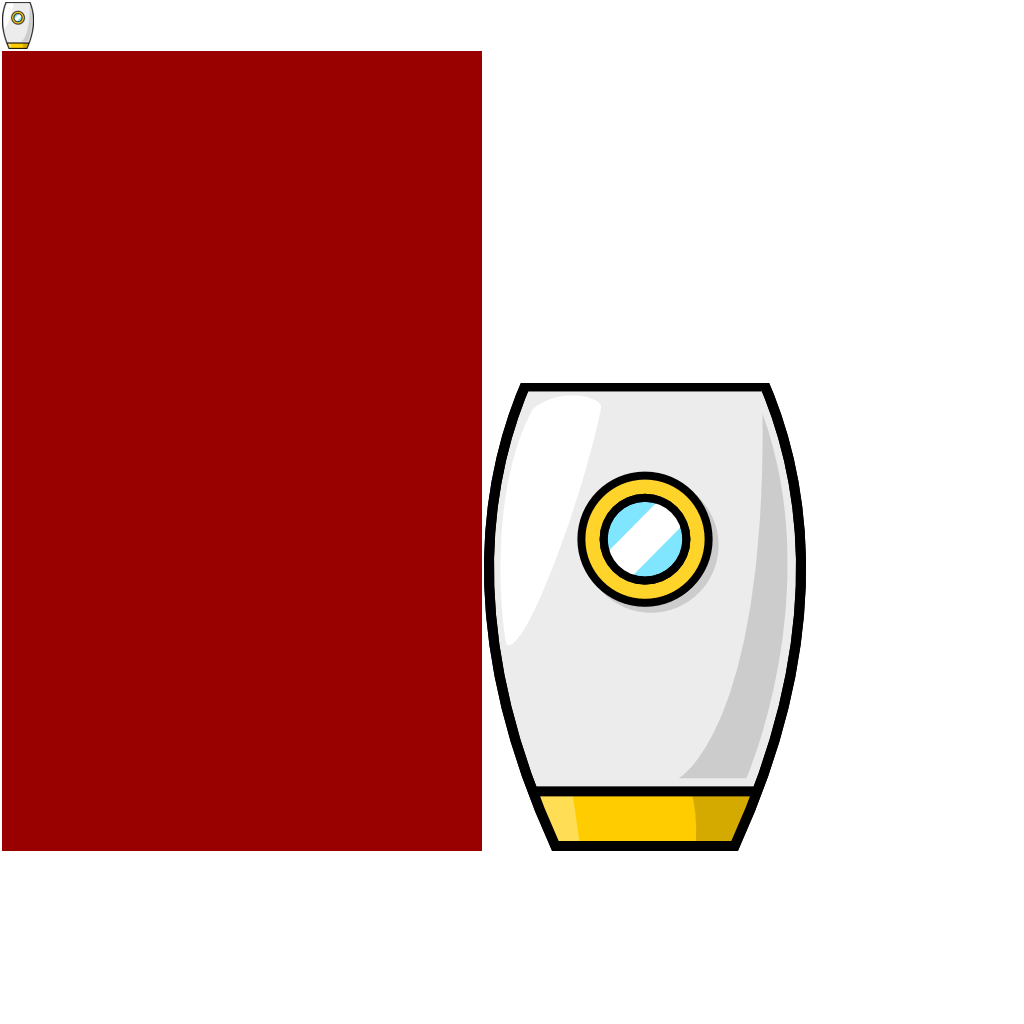
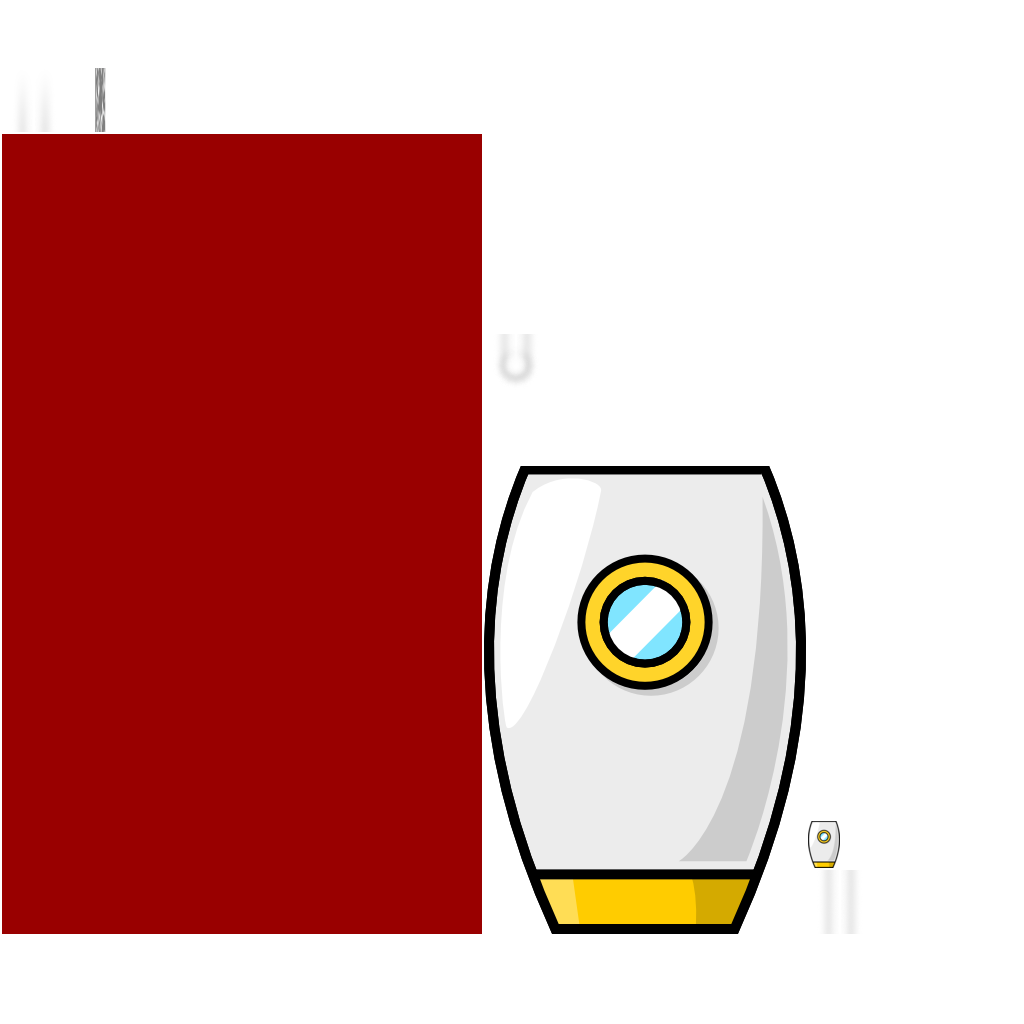
laser

Changed region(s): [[0.4688, 0.3438, 0.8438, 0.9375], [0.0, 0.0, 0.4688, 0.1562], [0.0, 0.8125, 0.4688, 0.9375]]

diff --git a/core/src/core/september/moon/landing/gameobjects/Laser.java b/core/src/core/september/moon/landing/gameobjects/Laser.java
@@ -1,7 +1,101 @@
 package core.september.moon.landing.gameobjects;
 
+import com.badlogic.gdx.graphics.Color;
+import com.badlogic.gdx.graphics.g2d.SpriteBatch;
+import com.badlogic.gdx.graphics.g2d.TextureRegion;
+import com.badlogic.gdx.math.Vector2;
+import core.september.moon.landing.framework.AbstractGameObject;
+import core.september.moon.landing.framework.Assets;
+
 /**
  * Created by christian on 12/02/15.
  */
-public class Laser {
+public class Laser extends AbstractGameObject{
+
+    public final static String TAG = Laser.class.getName();
+    public Laser(AbstractGameObject parent) {
+        init(parent);
+    }
+
+
+    public void init (AbstractGameObject parent) {
+        dimension.set(64, 64);
+        position.set(parent.position.x,parent.position.y);
+        // Center image on game object
+        rotation = parent.rotation;
+        origin.set(parent.dimension.x, parent.dimension.y);
+        //origin.set(dimension.x / 2, dimension.y / 2);
+
+        // Bounding box for collision detection
+        bounds.set(0, 0, dimension.x, dimension.y);
+
+        // Set physics values
+        /*terminalVelocity.set(3.0f, 4.0f);
+        friction.set(12.0f, 0.0f);
+        acceleration.set(0.0f, -25.0f);*/
+
+    }
+
+
+
+    @Override
+    public void render(SpriteBatch batch) {
+        TextureRegion reg[] = new TextureRegion[7];
+
+
+
+        // Apply Skin Color
+        // batch.setColor(CharacterSkin.values()[GamePreferences.instance.charSkin].getColor());
+
+
+
+        // Draw image
+        reg[Assets.LASER_START_BG] =  Assets.instance.laser.laser[Assets.LASER_START_BG];
+        //reg[Assets.LASER_START_BG].getTexture().
+
+        Vector2 vector = new Vector2();
+        drawSprite(batch,Assets.instance.laser.laser[Assets.LASER_START_BG],vector,Color.RED);
+        drawSprite(batch,Assets.instance.laser.laser[Assets.LASER_START_OL],vector,Color.RED);
+
+        vector.set(dimension.x,dimension.y-0.5f);
+
+        drawSprite(batch,Assets.instance.laser.laser[Assets.LASER_MIDDLE_BG],vector,Color.RED);
+        drawSprite(batch,Assets.instance.laser.laser[Assets.LASER_MIDDLE_OL],vector,Color.RED);
+
+        vector.set(dimension.x+vector.x,dimension.y+vector.y);
+
+        drawSprite(batch,Assets.instance.laser.laser[Assets.LASER_END_BG],vector,Color.RED);
+        drawSprite(batch,Assets.instance.laser.laser[Assets.LASER_END_OL],vector,Color.RED);
+
+
+
+        logObject(TAG,Assets.instance.laser.laser[Assets.LASER_START_BG],0,0);
+        // Reset color to white
+        batch.setColor(1, 1, 1, 1);
+    }
+
+    private void drawSprite(SpriteBatch batch,TextureRegion region,Vector2 parent,Color color) {
+
+        float dimCorrectionX = 0;
+        float dimCorrectionY = 0;
+
+
+        batch.setColor(color);
+        batch.draw(region.getTexture(),
+                position.x,
+                position.y+parent.y,
+                origin.x,
+                origin.y,
+                dimension.x + dimCorrectionX,
+                dimension.y + dimCorrectionY,
+                scale.x,
+                scale.y,
+                rotation,
+                region.getRegionX(),
+                region.getRegionY(),
+                region.getRegionWidth(),
+                region.getRegionHeight(), false, false);
+
+
+    }
 }

diff --git a/core/src/core/september/moon/landing/screens/play/WorldRenderer.java b/core/src/core/september/moon/landing/screens/play/WorldRenderer.java
@@ -20,6 +20,8 @@ package core.september.moon.landing.screens.play;
 import com.badlogic.gdx.graphics.OrthographicCamera;
 import com.badlogic.gdx.graphics.g2d.SpriteBatch;
 import com.badlogic.gdx.math.MathUtils;
+import com.badlogic.gdx.math.Rectangle;
+import com.badlogic.gdx.math.Vector2;
 import com.badlogic.gdx.utils.Disposable;
 import core.september.moon.landing.framework.Constants;
 
@@ -184,13 +186,37 @@ public class WorldRenderer implements Disposable {
 	}
 
 	public void resize (int width, int height) {
-		camera.viewportWidth = (Constants.VIEWPORT_HEIGHT / (float)height) * (float)width;
-		camera.update();
+		//camera.viewportWidth = (Constants.VIEWPORT_HEIGHT / (float)height) * (float)width;
+		//camera.update();
 		/*cameraGUI.viewportHeight = Constants.VIEWPORT_GUI_HEIGHT;
 		cameraGUI.viewportWidth = (Constants.VIEWPORT_GUI_HEIGHT / (float)height) * (float)width;
 		cameraGUI.position.set(cameraGUI.viewportWidth / 2, cameraGUI.viewportHeight / 2, 0);
 		cameraGUI.update();*/
-	}
+        float aspectRatio = (float)width/(float)height;
+        float scale = 1f;
+        Vector2 crop = new Vector2(0f, 0f);
+        if(aspectRatio > Constants.ASPECT_RATIO)
+        {
+            scale = (float)height/(float)Constants.VIEWPORT_HEIGHT;
+            crop.x = (width - Constants.VIEWPORT_WIDTH*scale)/2f;
+        }
+        else if(aspectRatio < Constants.ASPECT_RATIO)
+        {
+            scale = (float)width/(float)Constants.VIEWPORT_WIDTH;
+            crop.y = (height - Constants.VIEWPORT_HEIGHT*scale)/2f;
+        }
+        else
+        {
+            scale = (float)width/(float)Constants.VIEWPORT_WIDTH;
+        }
+
+        float w = (float)Constants.VIEWPORT_WIDTH*scale;
+        float h = (float)Constants.VIEWPORT_HEIGHT*scale;
+        Rectangle viewport = new Rectangle(crop.x, crop.y, w, h);
+        camera.viewportHeight = viewport.height;
+        camera.viewportWidth = viewport.width;
+        //camera.update();
+    }
 
 	@Override
 	public void dispose () {

diff --git a/core/src/core/september/moon/landing/framework/Assets.java b/core/src/core/september/moon/landing/framework/Assets.java
@@ -19,7 +19,15 @@ public class Assets implements Disposable, AssetErrorListener {
     public AssetLem lem;
     public AssetBack back;
     public AssetMoon moon;
+    public AssetLaser laser;
 
+    public final static int LASER_START_BG = 0;
+    public final static int LASER_START_OL = 1;
+    public final static int LASER_MIDDLE_BG = 2;
+    public final static int LASER_MIDDLE_OL = 3;
+    public final static int LASER_END_BG = 4;
+    public final static int LASER_END_OL = 5;
+    public final static int LASER_ANIMATION = 6;
 
     @Override
     public void error(AssetDescriptor asset, Throwable throwable) {
@@ -73,6 +81,7 @@ public class Assets implements Disposable, AssetErrorListener {
         lem = new AssetLem(atlas);
         back = new AssetBack(atlas);
         moon = new AssetMoon(atlas);
+        laser = new AssetLaser(atlas);
     }
 
     public class AssetLem {
@@ -99,6 +108,23 @@ public class Assets implements Disposable, AssetErrorListener {
 
         public AssetMoon (TextureAtlas atlas) {
             moon = atlas.findRegion("moon");
+        }
+    }
+
+
+    public class AssetLaser {
+        public final TextureAtlas.AtlasRegion[] laser;
+
+
+        public AssetLaser (TextureAtlas atlas) {
+            laser = new TextureAtlas.AtlasRegion[7];
+            laser[LASER_START_BG] = atlas.findRegion("startBg");
+            laser[LASER_START_OL] = atlas.findRegion("startOl");
+            laser[LASER_MIDDLE_BG] = atlas.findRegion("middleBg");
+            laser[LASER_MIDDLE_OL] = atlas.findRegion("middleOl");
+            laser[LASER_END_BG] = atlas.findRegion("endBg");
+            laser[LASER_END_OL] = atlas.findRegion("endOl");
+            laser[LASER_ANIMATION] = atlas.findRegion("olAnimation");
         }
     }
 }

diff --git a/core/src/core/september/moon/landing/screens/play/Level.java b/core/src/core/september/moon/landing/screens/play/Level.java
@@ -2,6 +2,7 @@ package core.september.moon.landing.screens.play;
 
 import com.badlogic.gdx.graphics.g2d.SpriteBatch;
 import core.september.moon.landing.gameobjects.Back;
+import core.september.moon.landing.gameobjects.Laser;
 import core.september.moon.landing.gameobjects.Lem;
 import core.september.moon.landing.gameobjects.Moon;
 
@@ -32,6 +33,7 @@ public class Level {
     public Back back;
     public Lem lem;
     public Moon moon;
+    public Laser laser;
 
 
 
@@ -143,6 +145,7 @@ public class Level {
         back = new Back();
         moon = new Moon();
         lem = new Lem();
+        laser = new Laser(lem);
 
     }
 
@@ -153,6 +156,7 @@ public class Level {
         back.update(deltaTime);
         moon.update(deltaTime);
         lem.update(deltaTime);
+        laser.update(deltaTime);
 
 
         // Bunny Head
@@ -176,7 +180,8 @@ public class Level {
 
         back.render(batch);
         //moon.render(batch);
-        //lem.render(batch);
+        lem.render(batch);
+        laser.render(batch);
 
         // Draw Mountains
         /*mountains.render(batch);

diff --git a/core/src/core/september/moon/landing/gameobjects/Lem.java b/core/src/core/september/moon/landing/gameobjects/Lem.java
@@ -4,6 +4,7 @@ import com.badlogic.gdx.graphics.g2d.SpriteBatch;
 import com.badlogic.gdx.graphics.g2d.TextureRegion;
 import core.september.moon.landing.framework.AbstractGameObject;
 import core.september.moon.landing.framework.Assets;
+import core.september.moon.landing.framework.Constants;
 
 /**
  * Created by christian on 11/02/15.
@@ -21,8 +22,8 @@ public class Lem extends AbstractGameObject {
     }
 
     public void init () {
-        dimension.set(480, 800);
-
+        dimension.set(32, 47);
+        position.set(Constants.VIEWPORT_WIDTH/2-32/2,Constants.VIEWPORT_HEIGHT/2-47/2);
         // Center image on game object
         origin.set(dimension.x / 2, dimension.y / 2);
 
@@ -96,8 +97,11 @@ public class Lem extends AbstractGameObject {
                         + dimCorrectionY, scale.x, scale.y, rotation, reg.getRegionX(), reg.getRegionY(), reg.getRegionWidth(),
                 reg.getRegionHeight(), false, false);
 
+
+        logObject(TAG,reg,0,0);
         // Reset color to white
         batch.setColor(1, 1, 1, 1);
+
     }
 
 

diff --git a/core/src/core/september/moon/landing/gameobjects/Back.java b/core/src/core/september/moon/landing/gameobjects/Back.java
@@ -99,7 +99,7 @@ public class Back extends AbstractGameObject {
                 dimension.x + dimCorrectionX, dimension.y
                         + dimCorrectionY, scale.x, scale.y, rotation, reg.getRegionX(), reg.getRegionY(), reg.getRegionWidth(),
                 reg.getRegionHeight(), false, false);
-        logObject(TAG,reg,dimCorrectionX,dimCorrectionY);
+
         // Reset color to white
         batch.setColor(1, 1, 1, 1);
     }

diff --git a/core/src/core/september/moon/landing/framework/Constants.java b/core/src/core/september/moon/landing/framework/Constants.java
@@ -13,6 +13,8 @@ public class Constants {
     // GUI Width
     public static final float VIEWPORT_GUI_HEIGHT = 800.0f;
 
+    public static final float ASPECT_RATIO = (float)VIEWPORT_WIDTH/(float)VIEWPORT_HEIGHT;
+
     // GUI Height
     public static final float VIEWPORT_GUI_WIDTH = 480.0f;
 
